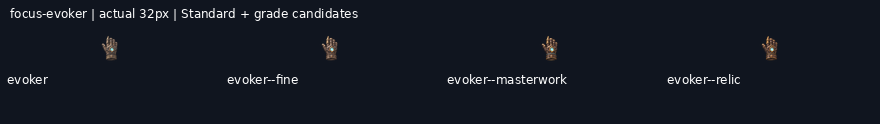
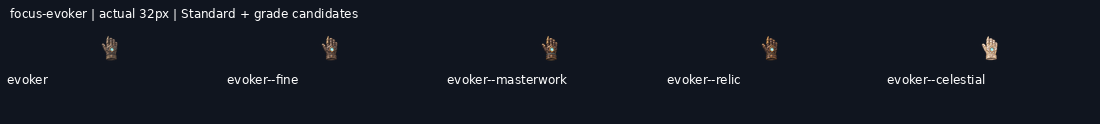
art: draw focus-evoker--celestial grade candidate

diff --git a/art/_archive/gear/2026-11-19-kept-blade-grades/HANDOFF.md b/art/_archive/gear/2026-11-19-kept-blade-grades/HANDOFF.md
@@ -1,9 +1,9 @@
 # Kept-blade grade candidates
 
-**48/68 grade candidates delivered** on `art/2026-11-19-kept-blade-grades`. Shared mailbox: https://github.com/leonpentastorm/Project-Heaven-Cry/issues/3 . See claim.json for this lane’s current Standards. Released overlapping blades reuse12 peer candidates, with3 local alternatives archived.
+**49/68 grade candidates delivered** on `art/2026-11-19-kept-blade-grades`. Shared mailbox: https://github.com/leonpentastorm/Project-Heaven-Cry/issues/3 . See claim.json for this lane’s current Standards. Released overlapping blades reuse12 peer candidates, with3 local alternatives archived.
 
 Leon requested continuous candidate production; proof approval is not fabricated. All candidates remain review-candidate, production_approved:false, implementation_ready:false, with outline.review_required:true. Exact outline is measured, never asserted unless the masks match. Per-image registration is uniform scaling/translation only, without warp, silhouette masks, filled pixels or code-drawn substitutes. The generated native remains untouched.
 
 Each image is generated, shown, technically exported, validated, committed and pushed before the next. Sources, versioned masters, exact prompts/reference hashes,256/128/64/32 exports and grade comparison sheets are retained. Standards and earlier deliveries are unchanged. This sparse checkout cannot validate omitted historical files; full-library validation/build is an integration check on a full checkout.
 
-Remaining: weapon-ork_machete--masterwork, weapon-ork_machete--relic, weapon-ork_machete--celestial, weapon-war_axe--fine, weapon-war_axe--masterwork, weapon-war_axe--relic, weapon-war_axe--celestial, focus-evoker--celestial, focus-emanator--fine, focus-emanator--masterwork, focus-emanator--relic, focus-emanator--celestial, focus-visualizer--fine, focus-visualizer--masterwork, focus-visualizer--relic, focus-visualizer--celestial, focus-attuner--fine, focus-attuner--masterwork, focus-attuner--relic, focus-attuner--celestial.
+Remaining: weapon-ork_machete--masterwork, weapon-ork_machete--relic, weapon-ork_machete--celestial, weapon-war_axe--fine, weapon-war_axe--masterwork, weapon-war_axe--relic, weapon-war_axe--celestial, focus-emanator--fine, focus-emanator--masterwork, focus-emanator--relic, focus-emanator--celestial, focus-visualizer--fine, focus-visualizer--masterwork, focus-visualizer--relic, focus-visualizer--celestial, focus-attuner--fine, focus-attuner--masterwork, focus-attuner--relic, focus-attuner--celestial.
